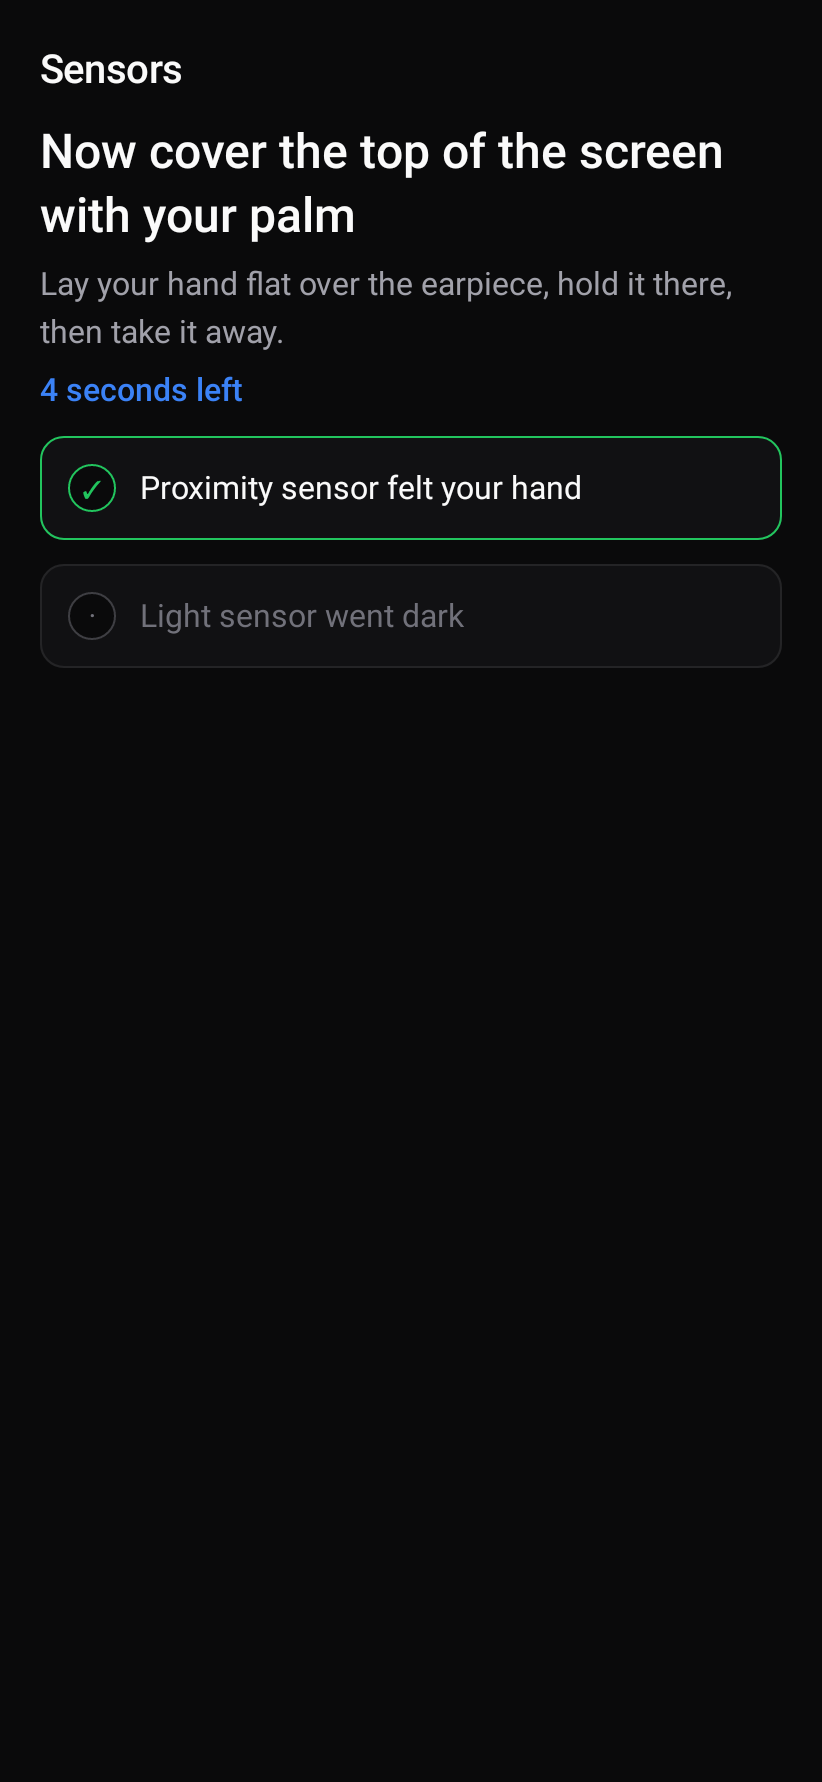
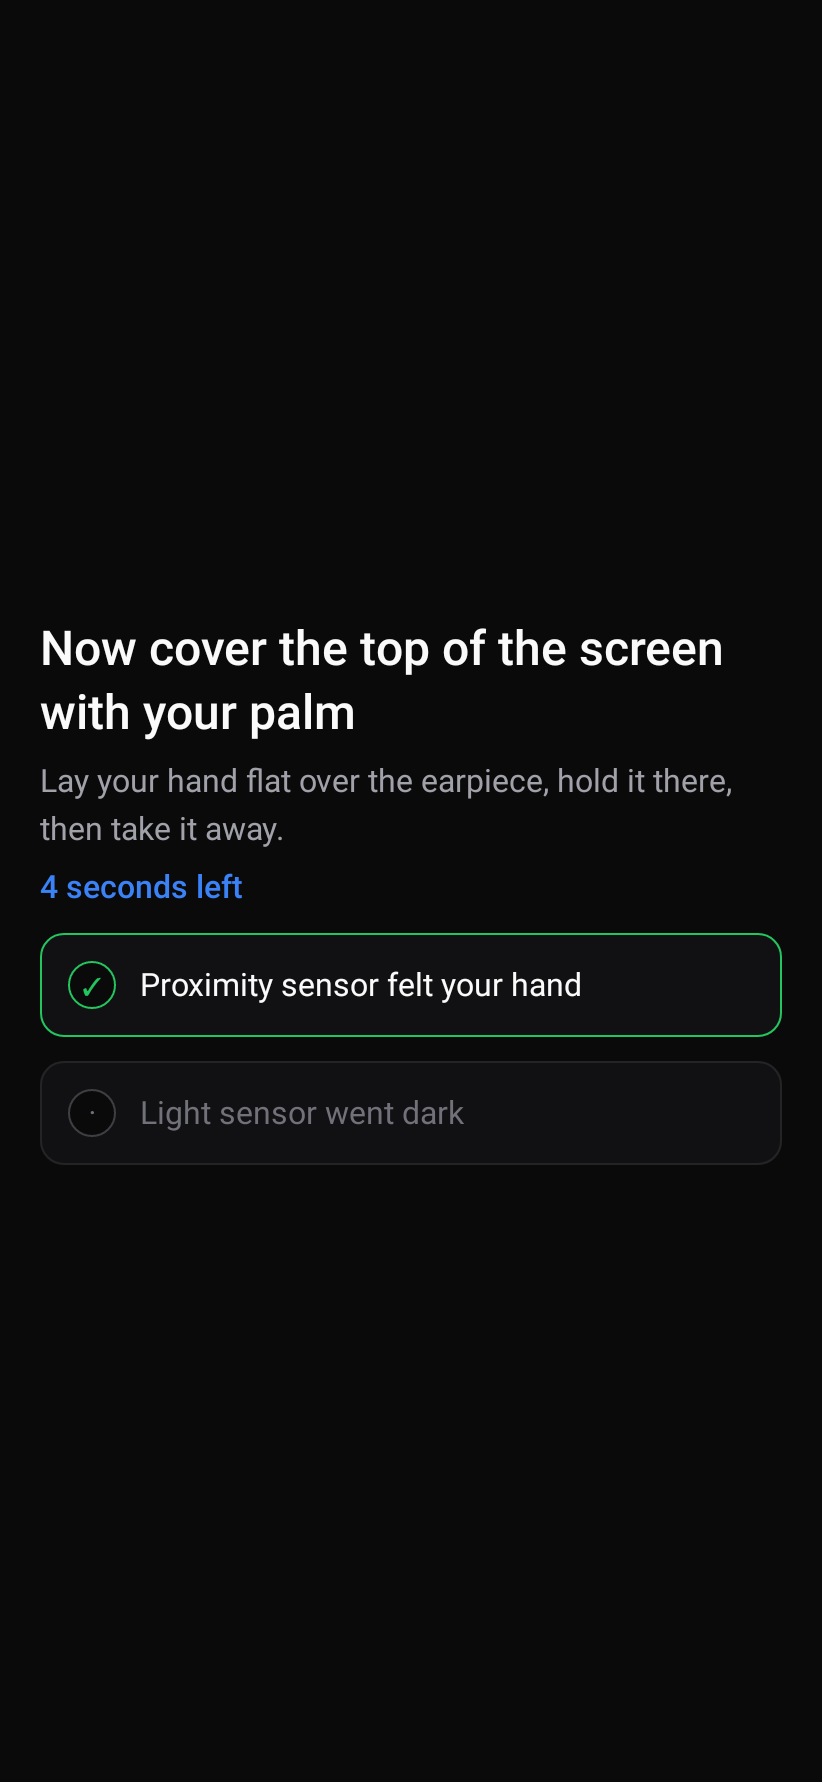
Centre the gesture screens without letting large text clip them
Plain centring looked right at the default font size and would have pushed the
meters off the bottom at a 200% accessibility scale with no scroll to recover
them. A minimum height of one viewport inside a scrolling column centres short
content and still scrolls tall content.

diff --git a/feature/sensortest/src/main/kotlin/com/phoneproof/feature/sensortest/SensorTestScreen.kt b/feature/sensortest/src/main/kotlin/com/phoneproof/feature/sensortest/SensorTestScreen.kt
@@ -5,6 +5,7 @@ import androidx.compose.foundation.background
 import androidx.compose.foundation.border
 import androidx.compose.foundation.layout.Arrangement
 import androidx.compose.foundation.layout.Box
+import androidx.compose.foundation.layout.BoxWithConstraints
 import androidx.compose.foundation.layout.Column
 import androidx.compose.foundation.layout.Row
 import androidx.compose.foundation.layout.Spacer
@@ -12,6 +13,7 @@ import androidx.compose.foundation.layout.WindowInsets
 import androidx.compose.foundation.layout.fillMaxSize
 import androidx.compose.foundation.layout.fillMaxWidth
 import androidx.compose.foundation.layout.height
+import androidx.compose.foundation.layout.heightIn
 import androidx.compose.foundation.layout.padding
 import androidx.compose.foundation.layout.safeDrawing
 import androidx.compose.foundation.layout.size
@@ -64,40 +66,59 @@ fun SensorTestScreen(
     // some compositions and not others, which is not allowed and would crash on the phase change.
     val scrollState = rememberScrollState()
 
-    Column(
+    // Insets, padding and the title all live here rather than in the route, so that what the screenshot
+    // tests render is what the buyer sees. The first version left padding to the route and the rendered
+    // meters ran off the right-hand edge with their labels clipped — a layout bug that existed only in
+    // the review, which is the worst place for one to hide.
+    BoxWithConstraints(
         modifier = modifier
             .fillMaxSize()
             .background(PhoneProofTheme.colors.background)
-            // Insets, padding and the title all live here rather than in the route, so that what the
-            // screenshot tests render is what the buyer sees. The first version left padding to the
-            // route and the rendered meters ran off the right-hand edge with their labels clipped —
-            // a layout bug that only existed in the review, which is the worst place for one to hide.
-            .windowInsetsPadding(WindowInsets.safeDrawing)
-            .then(if (duringGesture) Modifier else Modifier.verticalScroll(scrollState))
-            .padding(horizontal = 20.dp),
-        verticalArrangement = if (duringGesture) {
-            Arrangement.spacedBy(12.dp, Alignment.CenterVertically)
-        } else {
-            Arrangement.spacedBy(12.dp)
-        },
+            .windowInsetsPadding(WindowInsets.safeDrawing),
     ) {
-        if (!duringGesture) {
-            Spacer(Modifier.height(10.dp))
-            Text(
-                text = "Sensors",
-                style = MaterialTheme.typography.titleLarge,
-                color = PhoneProofTheme.colors.textPrimary,
-            )
-        }
+        // Centred when it fits, scrolling when it does not, rather than one or the other.
+        //
+        // Simply centring the gesture screens would have been enough at the default font size and would
+        // have clipped the meters off the bottom at a 200% accessibility scale, with no scroll to
+        // recover them. A minimum height of one viewport gets the centring for free while leaving the
+        // column scrollable, so a buyer with large text still reaches everything.
+        val viewport = maxHeight
 
-        when (state.phase) {
-            SensorPhase.READY -> Ready(state, onStart)
-            SensorPhase.MOTION -> Motion(state)
-            SensorPhase.COVER -> Cover(state)
-            SensorPhase.DONE -> Done(state, onRestart)
-        }
+        Column(
+            modifier = Modifier
+                .fillMaxWidth()
+                .verticalScroll(scrollState)
+                .padding(horizontal = 20.dp),
+        ) {
+            Column(
+                modifier = Modifier
+                    .fillMaxWidth()
+                    .heightIn(min = if (duringGesture) viewport else 0.dp),
+                verticalArrangement = if (duringGesture) {
+                    Arrangement.spacedBy(12.dp, Alignment.CenterVertically)
+                } else {
+                    Arrangement.spacedBy(12.dp)
+                },
+            ) {
+                if (!duringGesture) {
+                    Spacer(Modifier.height(10.dp))
+                    Text(
+                        text = "Sensors",
+                        style = MaterialTheme.typography.titleLarge,
+                        color = PhoneProofTheme.colors.textPrimary,
+                    )
+                }
 
-        if (!duringGesture) Spacer(Modifier.height(28.dp))
+                when (state.phase) {
+                    SensorPhase.READY -> Ready(state, onStart)
+                    SensorPhase.MOTION -> Motion(state)
+                    SensorPhase.COVER -> Cover(state)
+                    SensorPhase.DONE -> Done(state, onRestart)
+                }
+
+                if (!duringGesture) Spacer(Modifier.height(28.dp))
+            }
+        }
     }
 }
 
